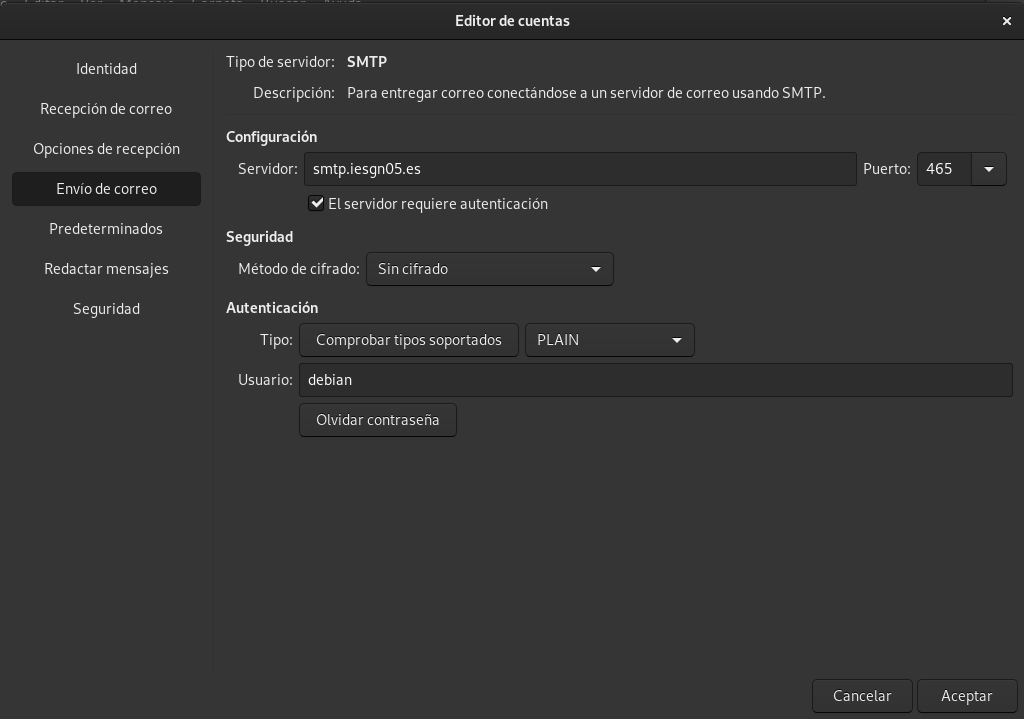
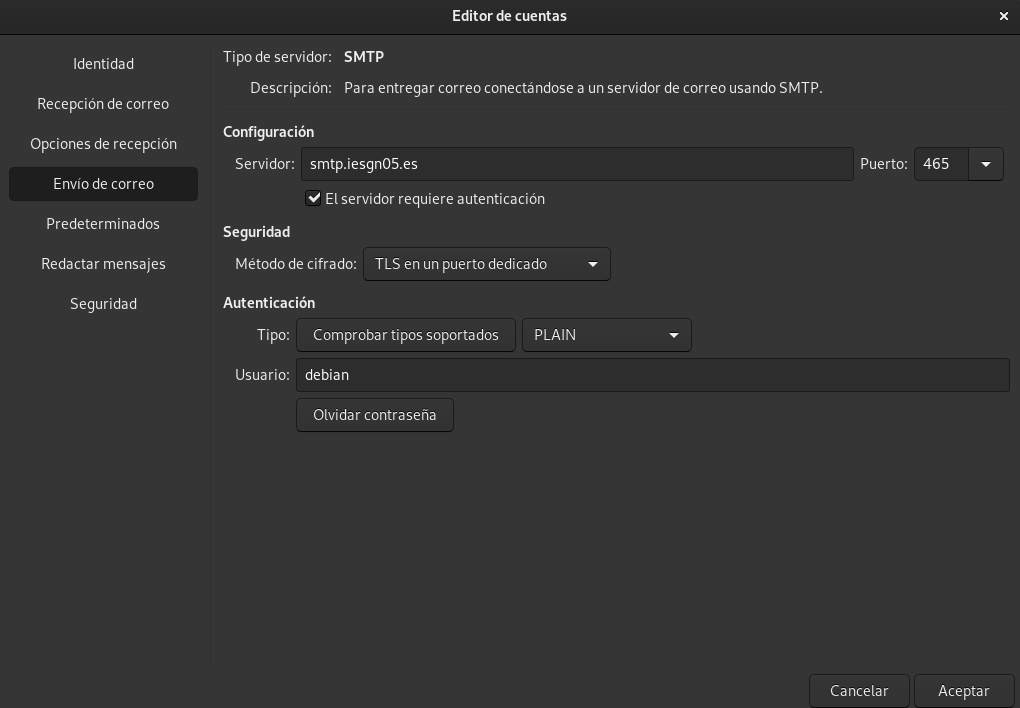
modificaciones

diff --git a/content/posts/servidor_correo3.md b/content/posts/servidor_correo3.md
@@ -482,95 +482,52 @@ Elige una de las opciones anterior para realizar el cifrado. Y muestra la config
 
 Previamente hemos agregado un CNAME indicando smtp.iesgn05.es para kiara.iesgn05.es en la zona DNS.
 
-Ahora vamos a intentar mandar un correo desde el servidor a gmail. Antes de eso vamos a crear los certificados con openssl
+Ahora vamos a intentar mandar un correo desde el servidor a gmail. 
+
+Creamos el certificado con LetsEncrypt para smtp, previamente hemos creado un CNAME con SMTP para kiara.iesgn05.es
 
 ```sh
-# Creamos la clave privada
-debian@kiara:~$ openssl genrsa -des3 -out kiara.key 2048
-Generating RSA private key, 2048 bit long modulus (2 primes)
-...........+++++
-..................................................................................................................................+++++
-e is 65537 (0x010001)
-Enter pass phrase for kiara.key:
-Verifying - Enter pass phrase for kiara.key:
-
-# Con la clave privada creada creamos otra clave 'insegura'
-
-debian@kiara:~$ openssl rsa -in kiara.key -out kiara.key.insecure
-Enter pass phrase for kiara.key:
-writing RSA key
-
-# Ahora le cambiamos el nombre de la primera clave que hemos creado y la denominamos como segura
-debian@kiara:~$ mv kiara.key kiara.key.secure
-
-# Después la 'insegura la convertimos en la clave primaria'
-
-debian@kiara:~$ mv kiara.key.insecure kiara.key
-
-# Con openssl creamos el certificado de que nos va a servir para smtp
-
-debian@kiara:~$ openssl req -new -key kiara.key -out kiara.csr
-You are about to be asked to enter information that will be incorporated
-into your certificate request.
-What you are about to enter is what is called a Distinguished Name or a DN.
-There are quite a few fields but you can leave some blank
-For some fields there will be a default value,
-If you enter '.', the field will be left blank.
------
-Country Name (2 letter code) [AU]:ES
-State or Province Name (full name) [Some-State]:Sevilla
-Locality Name (eg, city) []:Sevilla
-Organization Name (eg, company) [Internet Widgits Pty Ltd]:
-Organizational Unit Name (eg, section) []:
-Common Name (e.g. server FQDN or YOUR name) []:
-Email Address []:
-
-Please enter the following 'extra' attributes
-to be sent with your certificate request
-A challenge password []:
-An optional company name []:
-
-# Una vez creado el certificado vamos a firmarlo con la clave primada y obtendremos el certificado final
-
-debian@kiara:~$ openssl x509 -req -days 365 -in kiara.csr -signkey kiara.key -out kiara.crt
-Signature ok
-subject=C = ES, ST = Sevilla, L = Sevilla, O = Internet Widgits Pty Ltd
-Getting Private key
-
-# Copiamos los certificados a los directorios pertinentes
-
-debian@kiara:~$ sudo cp kiara.crt /etc/ssl/certs
-debian@kiara:~$ sudo cp kiara.key /etc/ssl/private
-
+sudo certbot certonly --standalone -d smtp.iesgn05.es
 ```
 
-* Editamos el fichero de configuracion de postfix, cambiamos la configuracion indicando los nuevos certificados
-
-```sh
-debian@kiara:~$ sudo nano /etc/postfix/main.cf
-
-```
-
-```sh
-...
-
-# TLS parameters
-smtpd_tls_cert_file=/etc/ssl/certs/kiara.crt
-smtpd_tls_key_file=/etc/ssl/private/kiara.key
-
-...
-
-```
-
-* Para usar SMTPS hay que descomentar una línea en el siguiente fichero y descomentar la línea que viene por defecto
+* Para usar SMTPS hay que descomentar las siguientes lineas
 
 `sudo nano /etc/postfix/master.cf`
 
 ```sh
-#smtp      inet  n       -       y       -       -       smtpd
+smtp      inet  n       -       y       -       -       smtpd
 smtps     inet  n       -       y       -       -       smtpd
+  -o syslog_name=postfix/smtps
+  -o smtpd_tls_wrappermode=yes
+  -o smtpd_sasl_auth_enable=yes
+  -o smtpd_client_restrictions=$mua_client_restrictions
+  -o milter_macro_daemon_name=ORIGINATING
 ```
 
+
+* Editamos el fichero de configuracion de postfix, cambiamos la configuracion indicando los nuevos certificados. Añadiremos la siguiente configuración de forma que activamos TLS para que nuestros correos sean seguros y reconozcan los certificados.
+
+```sh
+debian@kiara:~$ sudo nano /etc/postfix/main.cf
+```
+
+```sh
+...
+# TLS parameters
+
+smtpd_use_tls=yes
+smtpd_tls_key_file = /etc/letsencrypt/live/smtp.iesgn05.es/privkey.pem
+smtpd_tls_cert_file = /etc/letsencrypt/live/smtp.iesgn05.es/fullchain.pem
+smtpd_tls_session_cache_database = btree:${data_directory}/smtpd_scache
+smtp_tls_session_cache_database = btree:${data_directory}/smtp_scache
+
+smtp_tls_security_level = may
+smtpd_tls_security_level = may
+smtp_tls_note_starttls_offer = yes
+smtpd_tls_loglevel = 1
+smtpd_tls_received_header = yes
+...
+```
 
 * Reiniciamos los servicios
 ```sh
@@ -578,22 +535,23 @@ debian@kiara:~$ sudo systemctl restart postfix
 debian@kiara:~$ sudo systemctl restart dovecot
 ```
 
-
 * Comprobamos los puertos. Vemos que se ha abierto el puerto 465 de SMTPS
 
 ```sh
-debian@kiara:~$ sudo netstat -tlpn
+debian@kiara:~/Maildir/new$ sudo netstat -tlnp
 Active Internet connections (only servers)
 Proto Recv-Q Send-Q Local Address           Foreign Address         State       PID/Program name    
-tcp        0      0 0.0.0.0:993             0.0.0.0:*               LISTEN      25578/dovecot       
+tcp        0      0 0.0.0.0:993             0.0.0.0:*               LISTEN      32704/dovecot       
 tcp        0      0 0.0.0.0:3306            0.0.0.0:*               LISTEN      658/mysqld          
-tcp        0      0 0.0.0.0:143             0.0.0.0:*               LISTEN      25578/dovecot       
-tcp        0      0 0.0.0.0:465             0.0.0.0:*               LISTEN      13237/master        
+tcp        0      0 0.0.0.0:143             0.0.0.0:*               LISTEN      32704/dovecot       
+tcp        0      0 0.0.0.0:465             0.0.0.0:*               LISTEN      1157/master         
 tcp        0      0 0.0.0.0:22              0.0.0.0:*               LISTEN      568/sshd            
-tcp6       0      0 :::993                  :::*                    LISTEN      25578/dovecot       
-tcp6       0      0 :::143                  :::*                    LISTEN      25578/dovecot       
-tcp6       0      0 :::465                  :::*                    LISTEN      13237/master        
-tcp6       0      0 :::22                   :::*                    LISTEN      568/sshd  
+tcp        0      0 0.0.0.0:25              0.0.0.0:*               LISTEN      1157/master         
+tcp6       0      0 :::993                  :::*                    LISTEN      32704/dovecot       
+tcp6       0      0 :::143                  :::*                    LISTEN      32704/dovecot       
+tcp6       0      0 :::465                  :::*                    LISTEN      1157/master         
+tcp6       0      0 :::22                   :::*                    LISTEN      568/sshd            
+tcp6       0      0 :::25                   :::*                    LISTEN      1157/master      
 ```
 
 #### Funcionamiento
@@ -608,19 +566,12 @@ tcp6       0      0 :::22                   :::*                    LISTEN      
 ![pruebae.png](/images/ovh_correo/pruebae.png)
 
 
-* Nos pide una contraseña ya que, en nuestro certificado creado con openssl le hemos indicado una frase de paso. Esta frase solo la pedirá una vez cada vez que se inicie sesión en la cuenta de correo en el cliente, Evolution.
-
-![pidecontrasenia.png](/images/ovh_correo/pidecontrasenia.png)
-
-
-* Vemos que lo hemos recibido en gmail correctamente
+* Vemos que lo hemos recibido en gmail correctamente y conoce el certificado ya que está expedido por la autoridad de LetsEncrypt
 
 ![recibido.png](/images/ovh_correo/recibido.png)
 
-![recibido1.png](/images/ovh_correo/recibido1.png)
+![recibido2.jpeg](/images/ovh_correo/recibido2.jpeg)
 
 * Lo contestamos y comprobamos que recibe y envía correctamente correos
 
-![responde1.png](/images/ovh_correo/responde1.png)
-
-![responde2.png](/images/ovh_correo/responde2.png)
+![recibidook.png](/images/ovh_correo/recibidook.png)
